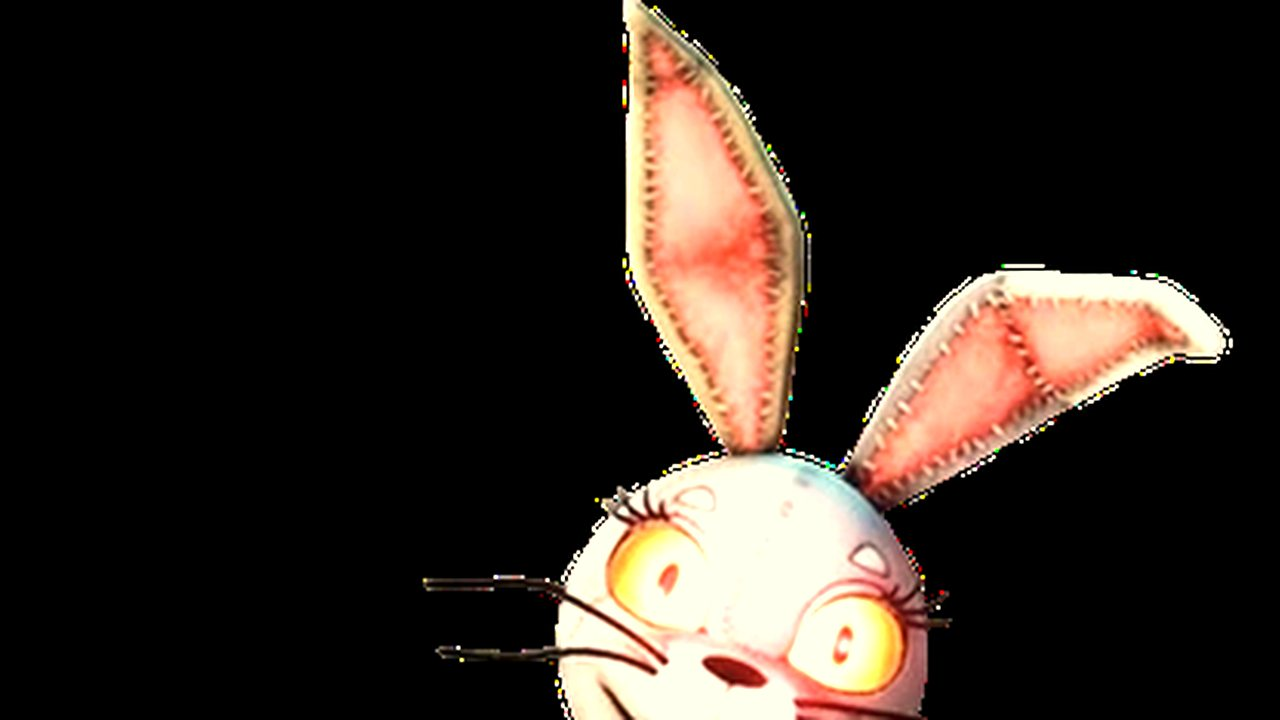
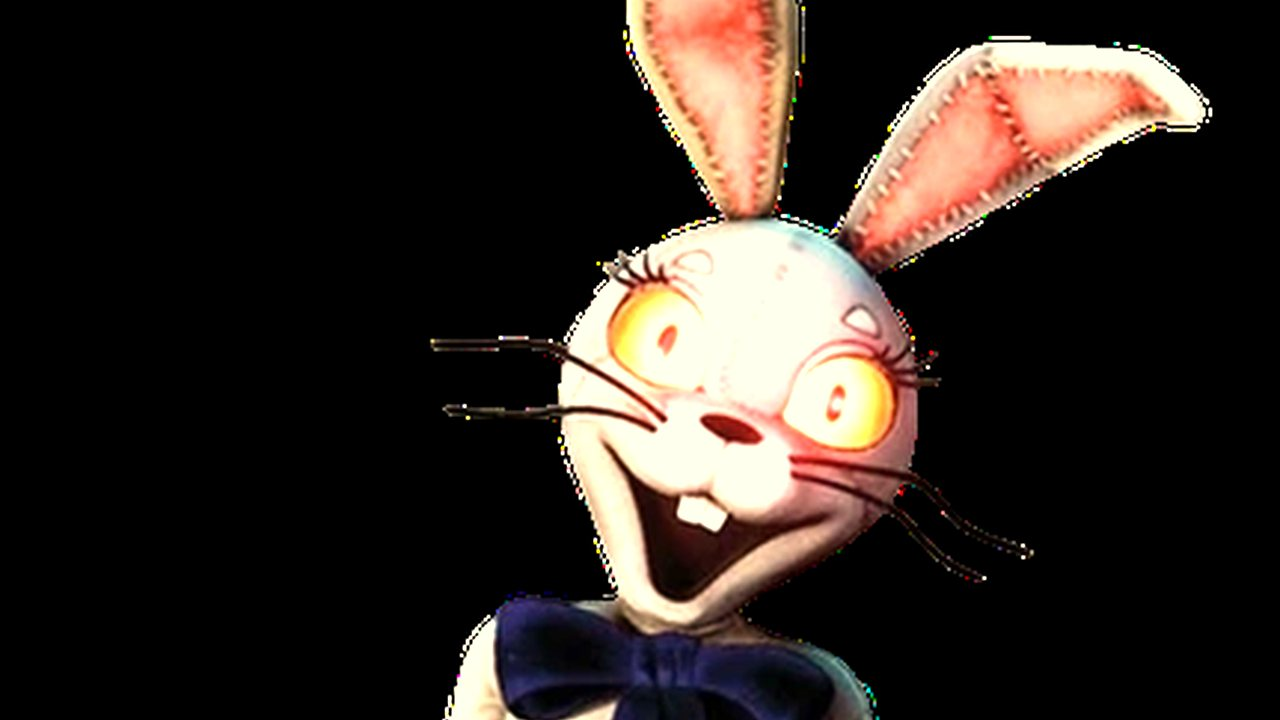
Frame the jumpscare on the face rather than on whatever is highest
The top of a full-body render is ears, a hat, or an antenna, and a
jumpscare framed on a pair of ears is a jumpscare of a pair of ears. The
crop now starts just under the top and runs a little past the shoulders.

Regenerated with tools/fnaf7-art.py.

diff --git a/tools/fnaf7-art.py b/tools/fnaf7-art.py
@@ -229,7 +229,11 @@ def build_scare(unit):
     """
     from PIL import Image, ImageEnhance
     iw, ih = unit.size
-    head = unit.crop((0, 0, iw, int(ih * 0.30)))
+    # From just under the top to a bit past the shoulders. The top of a
+    # full-body render is whatever is highest -- ears, a hat, an antenna --
+    # and a jumpscare framed on a pair of ears is a jumpscare of a pair of
+    # ears.
+    head = unit.crop((0, int(ih * 0.05), iw, int(ih * 0.45)))
     img = cover(head.convert("RGB"))
     img = ImageEnhance.Brightness(img).enhance(1.28)
     img = ImageEnhance.Contrast(img).enhance(1.18)
